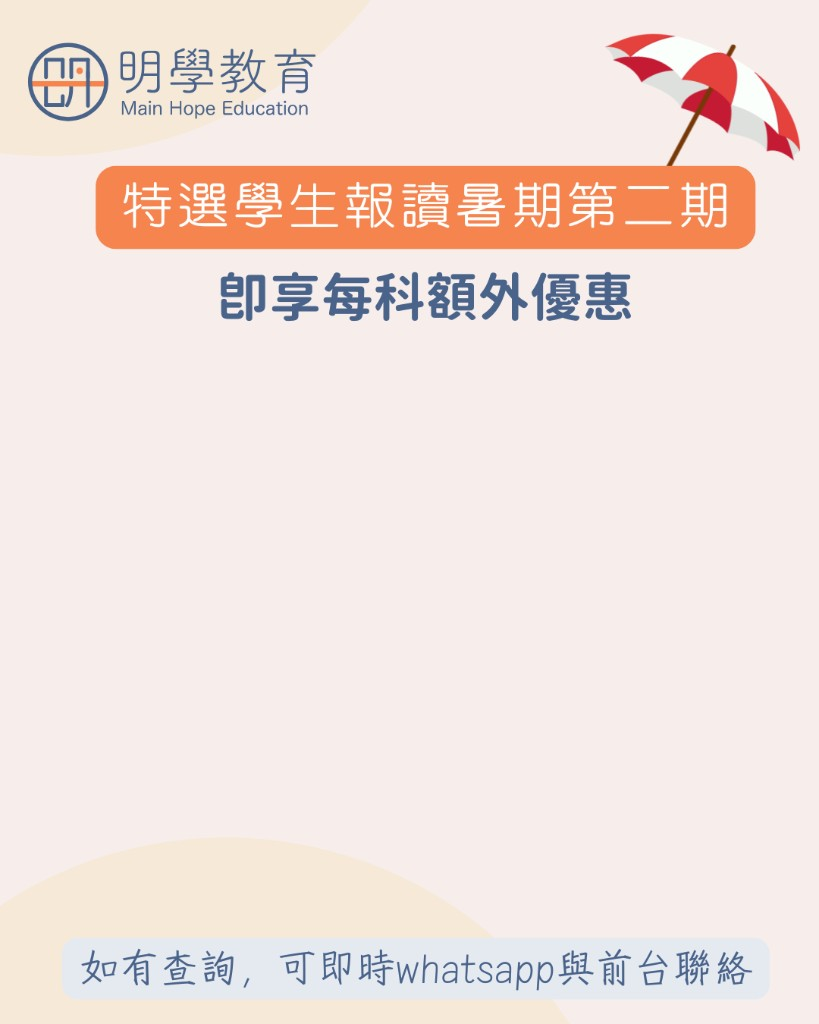
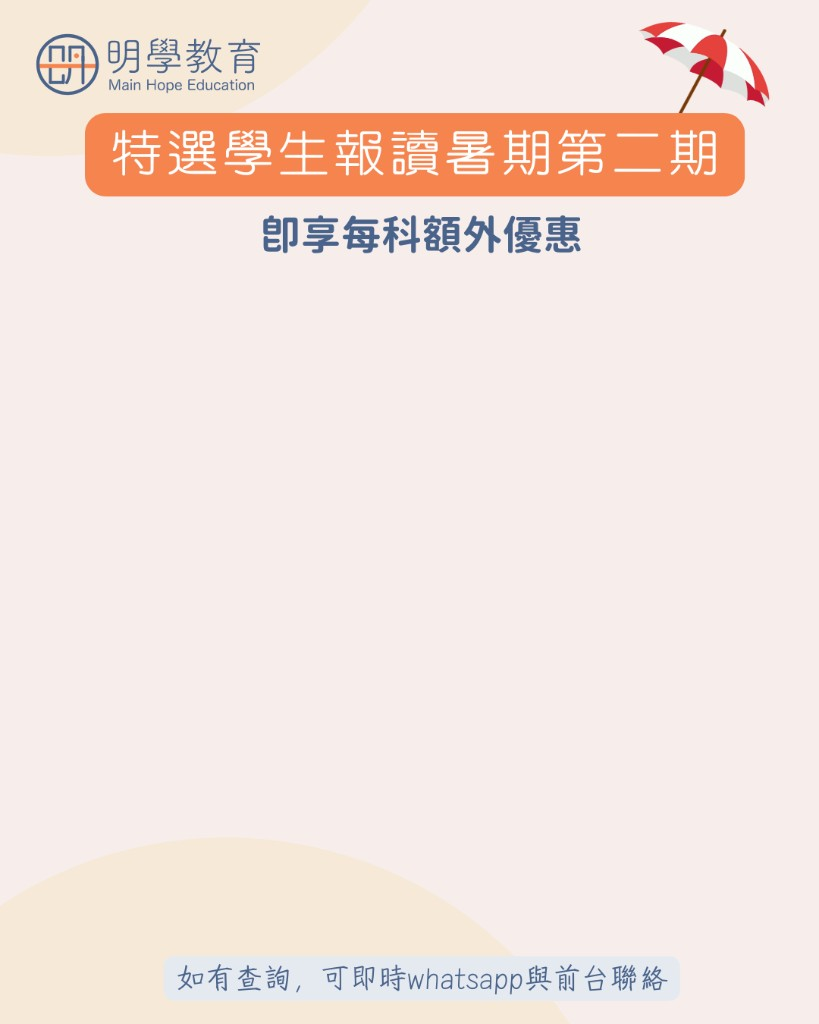
1

Changed region(s): [[0.0305, 0.0, 0.9768, 0.3125], [0.0916, 0.9062, 0.9158, 0.9688]]

diff --git a/src/lib/promotionMatchWhatsApp.test.ts b/src/lib/promotionMatchWhatsApp.test.ts
@@ -19,10 +19,10 @@ describe("buildPromotionMatchWhatsAppMessage", () => {
 
     expect(message).toContain("關智博家長 ︰")
     expect(message).toContain("暑期課程第二期將於8月開始")
-    expect(message).toContain("我們根據 關智博 目前的年級（中五），為您推介以下合適班別：")
+    expect(message).toContain("我們根據 關智博目前的年級（中五），為您推介以下合適班別：")
     expect(message).toContain("1. 暑期升中五級中文班（26SM-CHIS5008-A）")
     expect(message).toContain("科目：中國語文")
-    expect(message).toContain("凡經此訊息報名，更可享每科學費減 $100 優惠 🎉")
+    expect(message).toContain("凡經此訊息報名，更可享每科學費減 $200優惠 🎉")
     expect(message).toContain("明學教育示")
   })
 
@@ -50,7 +50,7 @@ describe("buildPromotionMatchWhatsAppMessage", () => {
     })
 
     expect(message).toContain("李同學家長 ︰")
-    expect(message).toContain("我們根據 李同學 目前的年級（中三），為您推介以下合適班別：")
+    expect(message).toContain("我們根據 李同學目前的年級（中三），為您推介以下合適班別：")
     expect(message).toContain("［請先從上方選擇推薦班別］")
     expect(message).not.toContain("1. ")
   })

diff --git a/src/lib/promotionMatchWhatsApp.ts b/src/lib/promotionMatchWhatsApp.ts
@@ -26,7 +26,7 @@ export function buildPromotionMatchWhatsAppMessage({
     "",
     "暑期差不多已過一半，明學教育現時尚餘少量課程接受報讀，暑期課程第二期將於8月開始。",
     "",
-    `我們根據 ${who} 目前的年級${gradePhrase}，為您推介以下合適班別：`,
+    `我們根據 ${who}目前的年級${gradePhrase}，為您推介以下合適班別：`,
   ]
 
   if (classes.length === 0) {
@@ -43,7 +43,7 @@ export function buildPromotionMatchWhatsAppMessage({
   }
 
   lines.push("")
-  lines.push("凡經此訊息報名，更可享每科學費減 $100 優惠 🎉")
+  lines.push("凡經此訊息報名，更可享每科學費減 $200優惠 🎉")
   lines.push("名額有限，建議把握暑期最後時光，為成績打好基礎 📚")
   lines.push("")
   lines.push("如有興趣，歡迎回覆想了解的班別，我們可再為您介紹詳情，謝謝！🙏")
